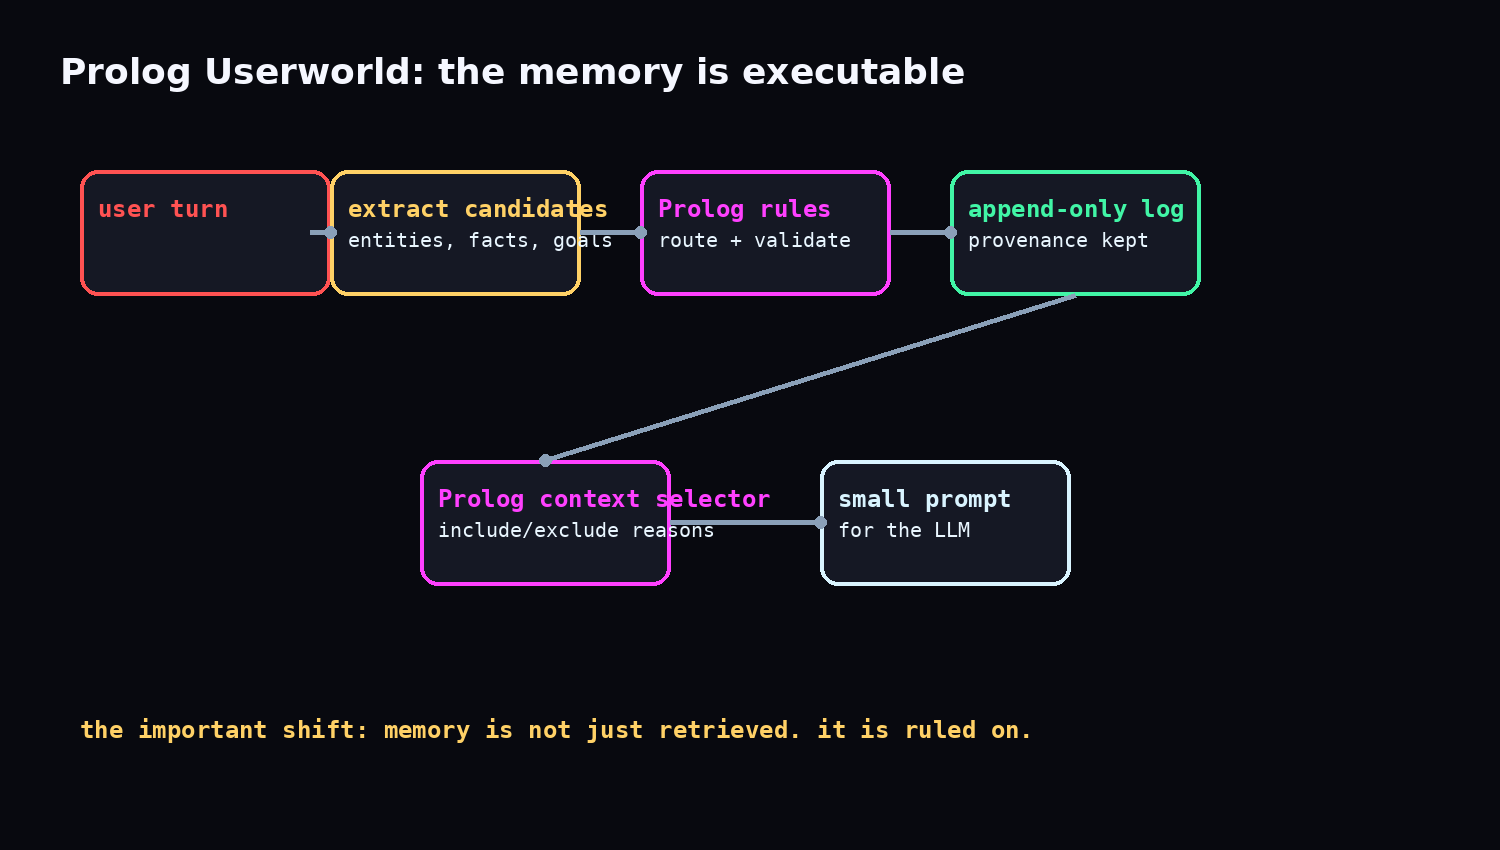
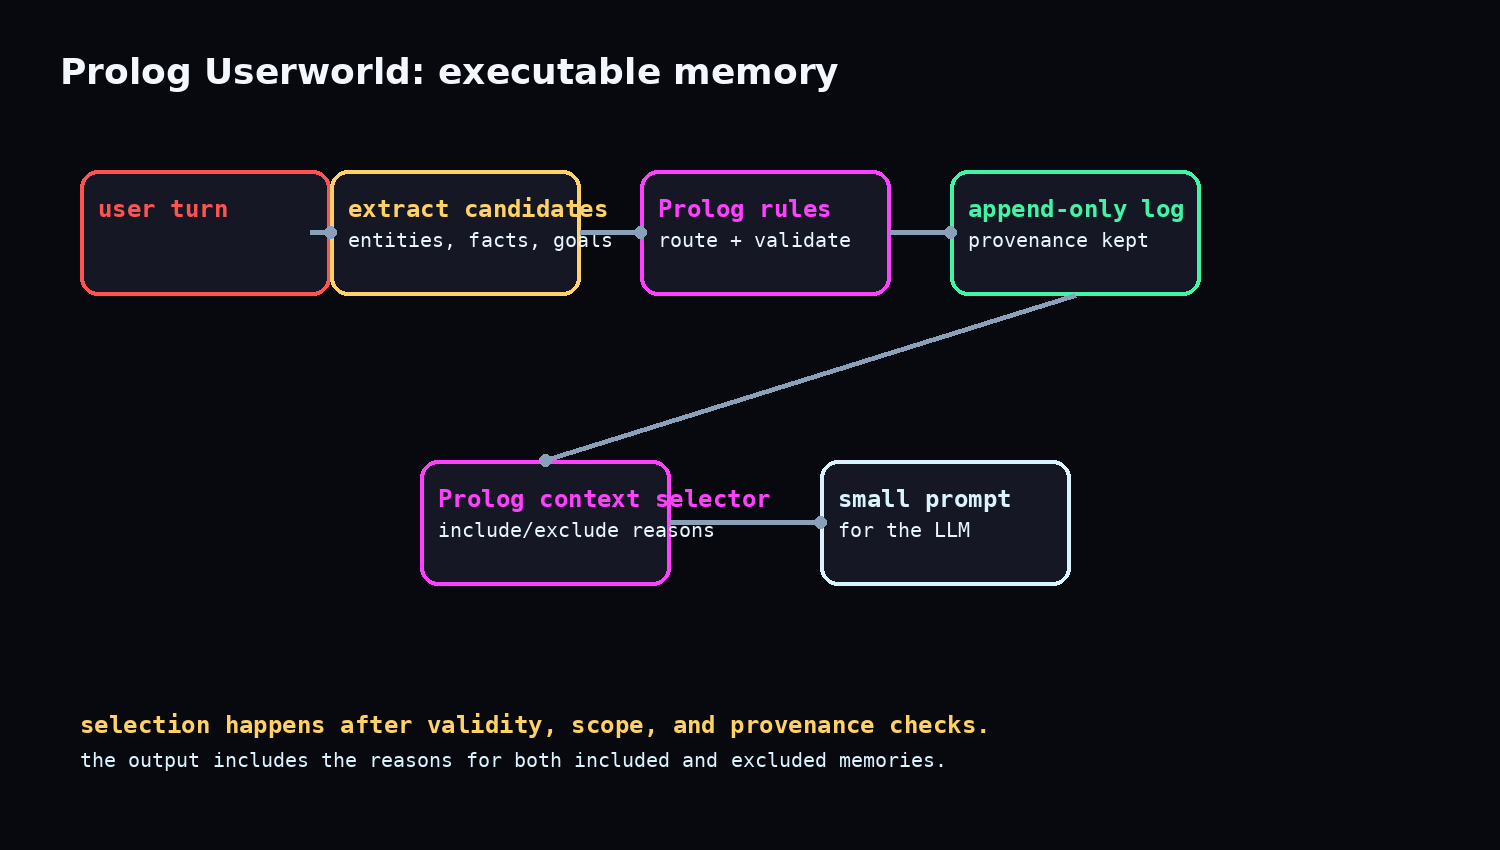
Revise Prolog Userworld prose

Changed region(s): [[0.0613, 0.8259, 0.6747, 0.9176], [0.276, 0.0612, 0.644, 0.1224]]

diff --git a/prolog-userworld/index.html b/prolog-userworld/index.html
@@ -323,7 +323,7 @@
     </nav>
     <p class="eyebrow">notes from the edge of old ai and new ai</p>
     <h1>prolog userworld: giving an ai conversation a real memory</h1>
-    <p class="dek">i built a small proof of concept around an old idea that suddenly feels new again: instead of letting a language model remember by vibes, put its memory inside a rule system that can explain itself.</p>
+    <p class="dek">i built a small proof of concept around a very old ai habit: write the facts down, write the rules down, and make the machine show its work before it answers.</p>
     <div class="meta">
       <span>published july 2026</span>
       <span>python + swi-prolog</span>
@@ -346,16 +346,16 @@
 
     <section id="why">
       <h2>why this exists</h2>
-      <p>my first serious ai work was not a neural network. it was prolog-era, rule-based expert-system work. in 2008 i published an itb thesis on a computer program for expert-system-based environmental impact analysis for cement industry projects. the archive still has the old title, the pdf chapters, and the keywords: amdal, program komputer, sistem pakar.</p>
-      <p>that era of ai was unfashionable. we wrote rules, asked structured questions, and tried to make machines reason through a domain the way a human expert would. then the industry ran through big data, cloud, blockchain, crypto, and finally language models. now we have the opposite problem: a model can speak beautifully, but it forgets why it said something, mixes old topics into new ones, and often cannot tell you why one memory entered the prompt while another stayed out.</p>
-      <p>prolog userworld is my attempt to bring a little of that old expert-system discipline into long-running llm conversations. the name is literal: a userworld is the world the system has built around one user, one set of projects, one running life of facts, goals, procedures, and half-finished threads.</p>
-      <p class="note">the point is not nostalgia. the point is control. memory should not be a pile of chat logs plus vector search. memory should have rules, provenance, contradiction handling, scope, and the ability to explain itself.</p>
+      <p>my first serious ai work was prolog-era, rule-based expert-system work. in 2008 i published an itb thesis on a computer program for expert-system-based environmental impact analysis for cement industry projects. the archive still has the old title, the pdf chapters, and the keywords: amdal, program komputer, sistem pakar.</p>
+      <p>that ai scene was small. we wrote rules, asked structured questions, and made the program walk through a domain the way a human expert might. after that came big data, cloud, blockchain, crypto, and the current language-model wave. the current wave has a different failure mode: the model can produce fluent paragraphs while losing track of where a fact came from, which topic it belongs to, and whether a newer statement has replaced it.</p>
+      <p>prolog userworld is my attempt to reuse that expert-system discipline for long-running llm conversations. the name is literal. a userworld is the world the system has built around one user: projects, people, preferences, procedures, active topics, stale facts, and unfinished threads.</p>
+      <p class="note">i do not want memory to mean "dump the chat log into the prompt" or "search for similar text and hope." i want rules, provenance, contradiction handling, scope, and an explanation for each piece of context.</p>
     </section>
 
     <section id="prolog">
       <h2>what prolog is, in normal human language</h2>
       <p>prolog is a programming language from the old ai world. most languages tell the computer exactly what to do step by step. prolog lets you describe facts and rules, then ask questions.</p>
-      <p>instead of writing "loop through this list and check every item", you write something closer to "a memory is relevant if it belongs to the current topic, or if it is global and matches the entity we are talking about, and it has not been revoked or superseded." then prolog searches for the answers.</p>
+      <p>instead of writing "loop through this list and check every item", you can write a rule like this: "a memory is relevant if it belongs to the current topic, or if it is global and matches the person we are discussing, and it has not been revoked or superseded." then prolog searches for the answers.</p>
 
       <pre><code>% tiny prolog example
 person(danny).
@@ -372,16 +372,16 @@ same_person(X, Y) :-
 % What = glasses ;
 % What = prolog_userworld.</code></pre>
 
-      <p>that makes prolog useful for things like expert systems, planning, legal-ish rules, medical triage, symbolic reasoning, and now, maybe, memory governance for ai agents. it is not magic. it is brittle if your facts are bad. but it is wonderfully explicit.</p>
+      <p>that is why prolog showed up in expert systems, planning, legal-ish rules, medical triage, and symbolic reasoning. bad facts still produce bad answers. the advantage is that the mistake is often visible in the facts or the rule that fired.</p>
     </section>
 
     <section id="architecture">
       <h2>the architecture</h2>
-      <p>the prototype is small: python receives the user turn, extracts candidate memories, then asks swi-prolog to make the actual decisions. prolog is the control plane. python is the plumbing.</p>
+      <p>the prototype is small. python receives the user turn, extracts candidate memories, then asks swi-prolog to make the actual decisions. prolog is the control plane. python is the plumbing.</p>
 
       <figure>
         <img src="assets/architecture-map.png" alt="diagram showing user turn, extraction, prolog rules, append-only log, context selector, and prompt">
-        <figcaption>the important shift: memory is not just retrieved. it is ruled on.</figcaption>
+        <figcaption>memory is retrieved only after the rule system decides what is still valid and in scope.</figcaption>
       </figure>
 
       <p>the system stores:</p>
@@ -395,7 +395,7 @@ same_person(X, Y) :-
         <li><strong>epistemic status</strong>: explicit user statement, observation, inference, hypothesis, or suggestion.</li>
       </ul>
 
-      <p>the memory file is an append-only event log. old facts are not deleted when they become wrong. they are superseded. that sounds boring until you need to answer, "what did i believe at the time?"</p>
+      <p>the memory file is an append-only event log. old facts are not deleted when they become wrong. they are superseded. that lets the system answer a question normal chat memory usually cannot answer: "what did i believe at the time?"</p>
 
       <pre><code>python -m userworld chat
 python -m userworld demo
@@ -428,7 +428,7 @@ memory_visible_for_topic(Id, CurrentTopic, QueryEntities, QueryText, include, Re
 
     <section id="screenshots">
       <h2>six use cases</h2>
-      <p>the demo uses a deliberately weird conversation because weird conversations expose memory bugs quickly. it starts with infrared anti-photography glasses, switches into llm memory architecture, learns a research workflow, then returns to the glasses and changes a technical fact.</p>
+      <p>the demo uses a weird conversation because weird conversations expose memory bugs quickly. it starts with infrared anti-photography glasses, switches into llm memory architecture, learns a research workflow, then returns to the glasses and changes a technical fact.</p>
 
       <h3>1. learn topic-scoped facts</h3>
       <p>danny is building infrared anti-photography glasses. the system records the project and the technical details as topic-local facts, not universal truth.</p>
@@ -441,14 +441,14 @@ memory_visible_for_topic(Id, CurrentTopic, QueryEntities, QueryText, include, Re
       <p>when the conversation moves to prolog memory architecture, danny remains the same person, but the infrared details do not pollute the new prompt.</p>
       <figure>
         <img src="assets/usecase-02-topic-switch.png" alt="terminal screenshot showing topic switch and excluded infrared facts">
-        <figcaption>the global identity memory stays in; the old topic's infrared facts are explicitly excluded.</figcaption>
+        <figcaption>the global identity memory stays in. the old topic's infrared facts are explicitly excluded.</figcaption>
       </figure>
 
       <h3>3. learn a reusable workflow</h3>
       <p>the user can teach a procedure: collect primary sources, build a comparison matrix, run evaluation, document limitations. later, a research request triggers that workflow.</p>
       <figure>
         <img src="assets/usecase-03-procedure-recall.png" alt="terminal screenshot showing procedural memory recall">
-        <figcaption>procedural memory is not just a note; it has triggers and steps.</figcaption>
+        <figcaption>procedural memory has triggers and steps, so it can be recalled when a similar job appears later.</figcaption>
       </figure>
 
       <h3>4. resume an old topic and supersede a fact</h3>
@@ -459,23 +459,23 @@ memory_visible_for_topic(Id, CurrentTopic, QueryEntities, QueryText, include, Re
       </figure>
 
       <h3>5. inspect and explain</h3>
-      <p>the system can report its current counts, active topic, selected memories, and excluded memories with reasons. this is the part i care about most: explainability should be a core feature, not a debug afterthought.</p>
+      <p>the system can report its current counts, active topic, selected memories, and excluded memories with reasons. this is the part i care about most: the explanation belongs in normal use, not hidden in a log file.</p>
       <figure>
         <img src="assets/usecase-05-explain-inspect.png" alt="terminal screenshot showing inspect and explain output">
         <figcaption>every selected and excluded memory carries a reason.</figcaption>
       </figure>
 
       <h3>6. compare against simple memory baselines</h3>
-      <p>the benchmark compares full history, last-n turns, lexical retrieval, and prolog userworld. this is a synthetic benchmark, so i treat it as a smoke test, not a victory lap.</p>
+      <p>the benchmark compares full history, last-n turns, lexical retrieval, and prolog userworld. this is a synthetic benchmark, so i treat it as a smoke test for the rule set.</p>
       <figure>
         <img src="assets/usecase-06-benchmark.png" alt="terminal screenshot showing benchmark metrics for full history, last-n, lexical, and prolog userworld">
-        <figcaption>the point is not that a tiny benchmark proves superiority. the point is that the architecture can be evaluated deterministically.</figcaption>
+        <figcaption>a tiny benchmark cannot prove superiority. it can prove whether this implementation obeys its own rules.</figcaption>
       </figure>
     </section>
 
     <section id="memory-harnesses">
       <h2>how it compares with other memory harnesses</h2>
-      <p>there is already a wave of memory systems for agents. i do not think prolog userworld replaces them all. i think it sits in a different corner: explicit rules over mutable personal reality.</p>
+      <p>there is already a wave of memory systems for agents. prolog userworld is not trying to replace all of them. it handles a narrower problem: explicit rules over a personal memory file that changes over time.</p>
 
       <table>
         <thead>
@@ -499,36 +499,36 @@ memory_visible_for_topic(Id, CurrentTopic, QueryEntities, QueryText, include, Re
           <tr>
             <td>vector search / bm25</td>
             <td>good at semantic similarity and fast retrieval.</td>
-            <td>similarity is not the same as relevance, validity, scope, or authority.</td>
+            <td>similar text can still be out of date, out of scope, or based on the wrong authority.</td>
           </tr>
           <tr>
             <td>langgraph memory</td>
             <td>short-term state via checkpoints and long-term stores across sessions.</td>
-            <td>userworld focuses on a declarative rule layer that decides context inclusion and exclusion.</td>
+            <td>userworld puts declarative rules in charge of context inclusion and exclusion.</td>
           </tr>
           <tr>
             <td>memgpt / letta</td>
             <td>stateful agents that manage growing context and persistent memory.</td>
-            <td>userworld is smaller and more rigid: prolog predicates decide mutation, routing, and selection.</td>
+            <td>userworld is smaller and stricter: prolog predicates decide mutation, routing, and selection.</td>
           </tr>
           <tr>
             <td>mem0</td>
             <td>developer-friendly persistent memory layer for apps and agents.</td>
-            <td>userworld is less productized, but more explicit about proof traces and contradiction rules.</td>
+            <td>userworld is less productized. its bet is proof traces and contradiction rules.</td>
           </tr>
           <tr>
             <td>zep / graphiti</td>
             <td>temporal knowledge graphs with evolving entities and relationships.</td>
-            <td>userworld borrows the temporal instinct, but expresses control rules in prolog instead of graph retrieval alone.</td>
+            <td>userworld keeps the time-aware instinct, then writes the control rules in prolog.</td>
           </tr>
         </tbody>
       </table>
 
-      <p>the closest philosophical cousin is probably a temporal knowledge graph plus a rule engine. the difference is that in prolog userworld, the rule engine is not glued on afterward. it is the main memory surface.</p>
+      <p>the closest cousin is probably a temporal knowledge graph plus a rule engine. in prolog userworld, the rule engine is the main memory surface.</p>
     </section>
 
     <section id="benchmark">
-      <h2>the benchmark, and why i do not overclaim it</h2>
+      <h2>the benchmark, with the caveats up front</h2>
       <p>the current benchmark has 30 synthetic scenarios covering abrupt topic switches, nested digressions, resuming old topics, shared entities, ambiguous references, contradictions, superseded facts, temporary instructions, procedural recall, multi-step goals, revoked information, topic-local facts, and globally available facts.</p>
 
       <pre><code>{
@@ -543,19 +543,19 @@ memory_visible_for_topic(Id, CurrentTopic, QueryEntities, QueryText, include, Re
   "procedural_retrieval_accuracy": 1.000
 }</code></pre>
 
-      <p>that looks clean because the scenarios were written to test the rule semantics directly. it proves the machine is doing what the rules say. it does not prove that the rules are perfect, or that this beats embeddings in the wild. the next step is a larger held-out benchmark with messy conversations written by someone other than me.</p>
+      <p>the numbers are clean because the scenarios test the rule semantics directly. they show that the program follows the rules that were written for it. they do not show that the rules are complete, or that this will beat embeddings on a messy external dataset. the next step is a held-out benchmark with conversations written by someone else.</p>
     </section>
 
     <section id="thesis">
       <h2>why this may become a thesis</h2>
-      <p>the thesis question is simple: can a symbolic memory layer make long-running ai conversations more trustworthy?</p>
-      <p>to answer that properly, i would need to compare not just retrieval scores, but behavior: does the system avoid leaking stale topic details? does it preserve provenance? does it explain itself well enough for a human to audit? can it manage durable procedures without turning guesses into facts?</p>
-      <p>this prototype is a first brick. it runs on a phone, inside debian proot, with python and swi-prolog. that matters to me because powerful systems should not require a cloud stack just to think clearly.</p>
+      <p>the thesis question is plain: can a symbolic memory layer make long-running ai conversations easier to audit?</p>
+      <p>to answer that properly, i would compare behavior, not only retrieval scores. does the system avoid leaking stale topic details? does it preserve provenance? can a human inspect why a memory was selected? can it manage durable procedures without turning guesses into facts?</p>
+      <p>this prototype runs on a phone, inside debian proot, with python and swi-prolog. i like that constraint. it keeps the architecture small enough to read.</p>
 
       <div class="grid">
         <div class="block">
           <strong>next experiment</strong>
-          <p>replace the deterministic extractor with model-assisted extraction while keeping explicit status: user statement, observation, inference, hypothesis, suggestion.</p>
+          <p>replace the deterministic extractor with model-assisted extraction, while still labeling each memory as user statement, observation, inference, hypothesis, or suggestion.</p>
         </div>
         <div class="block">
           <strong>next benchmark</strong>
@@ -567,14 +567,14 @@ memory_visible_for_topic(Id, CurrentTopic, QueryEntities, QueryText, include, Re
         </div>
         <div class="block">
           <strong>next paper</strong>
-          <p>frame prolog userworld as executable declarative memory, not just retrieval, not just summarization, not just a tool call.</p>
+          <p>frame prolog userworld as executable declarative memory: different from retrieval, summarization, or a one-off tool call.</p>
         </div>
       </div>
     </section>
 
     <section id="try">
       <h2>try it</h2>
-      <p>the code is public. it installs with a normal python virtual environment and swi-prolog. no api key is needed for the offline demo or benchmark.</p>
+      <p>the code is public. it installs with a normal python virtual environment and swi-prolog. the offline demo and benchmark do not need an api key.</p>
 
       <pre><code>git clone https://github.com/Decentricity/prolog-userworld.git
 cd prolog-userworld
@@ -594,7 +594,7 @@ python -m userworld eval</code></pre>
   </main>
 
   <footer>
-    <p>built for people who still believe the future should be understandable.</p>
+    <p>built for people who still want systems they can inspect.</p>
   </footer>
 </body>
 </html>
